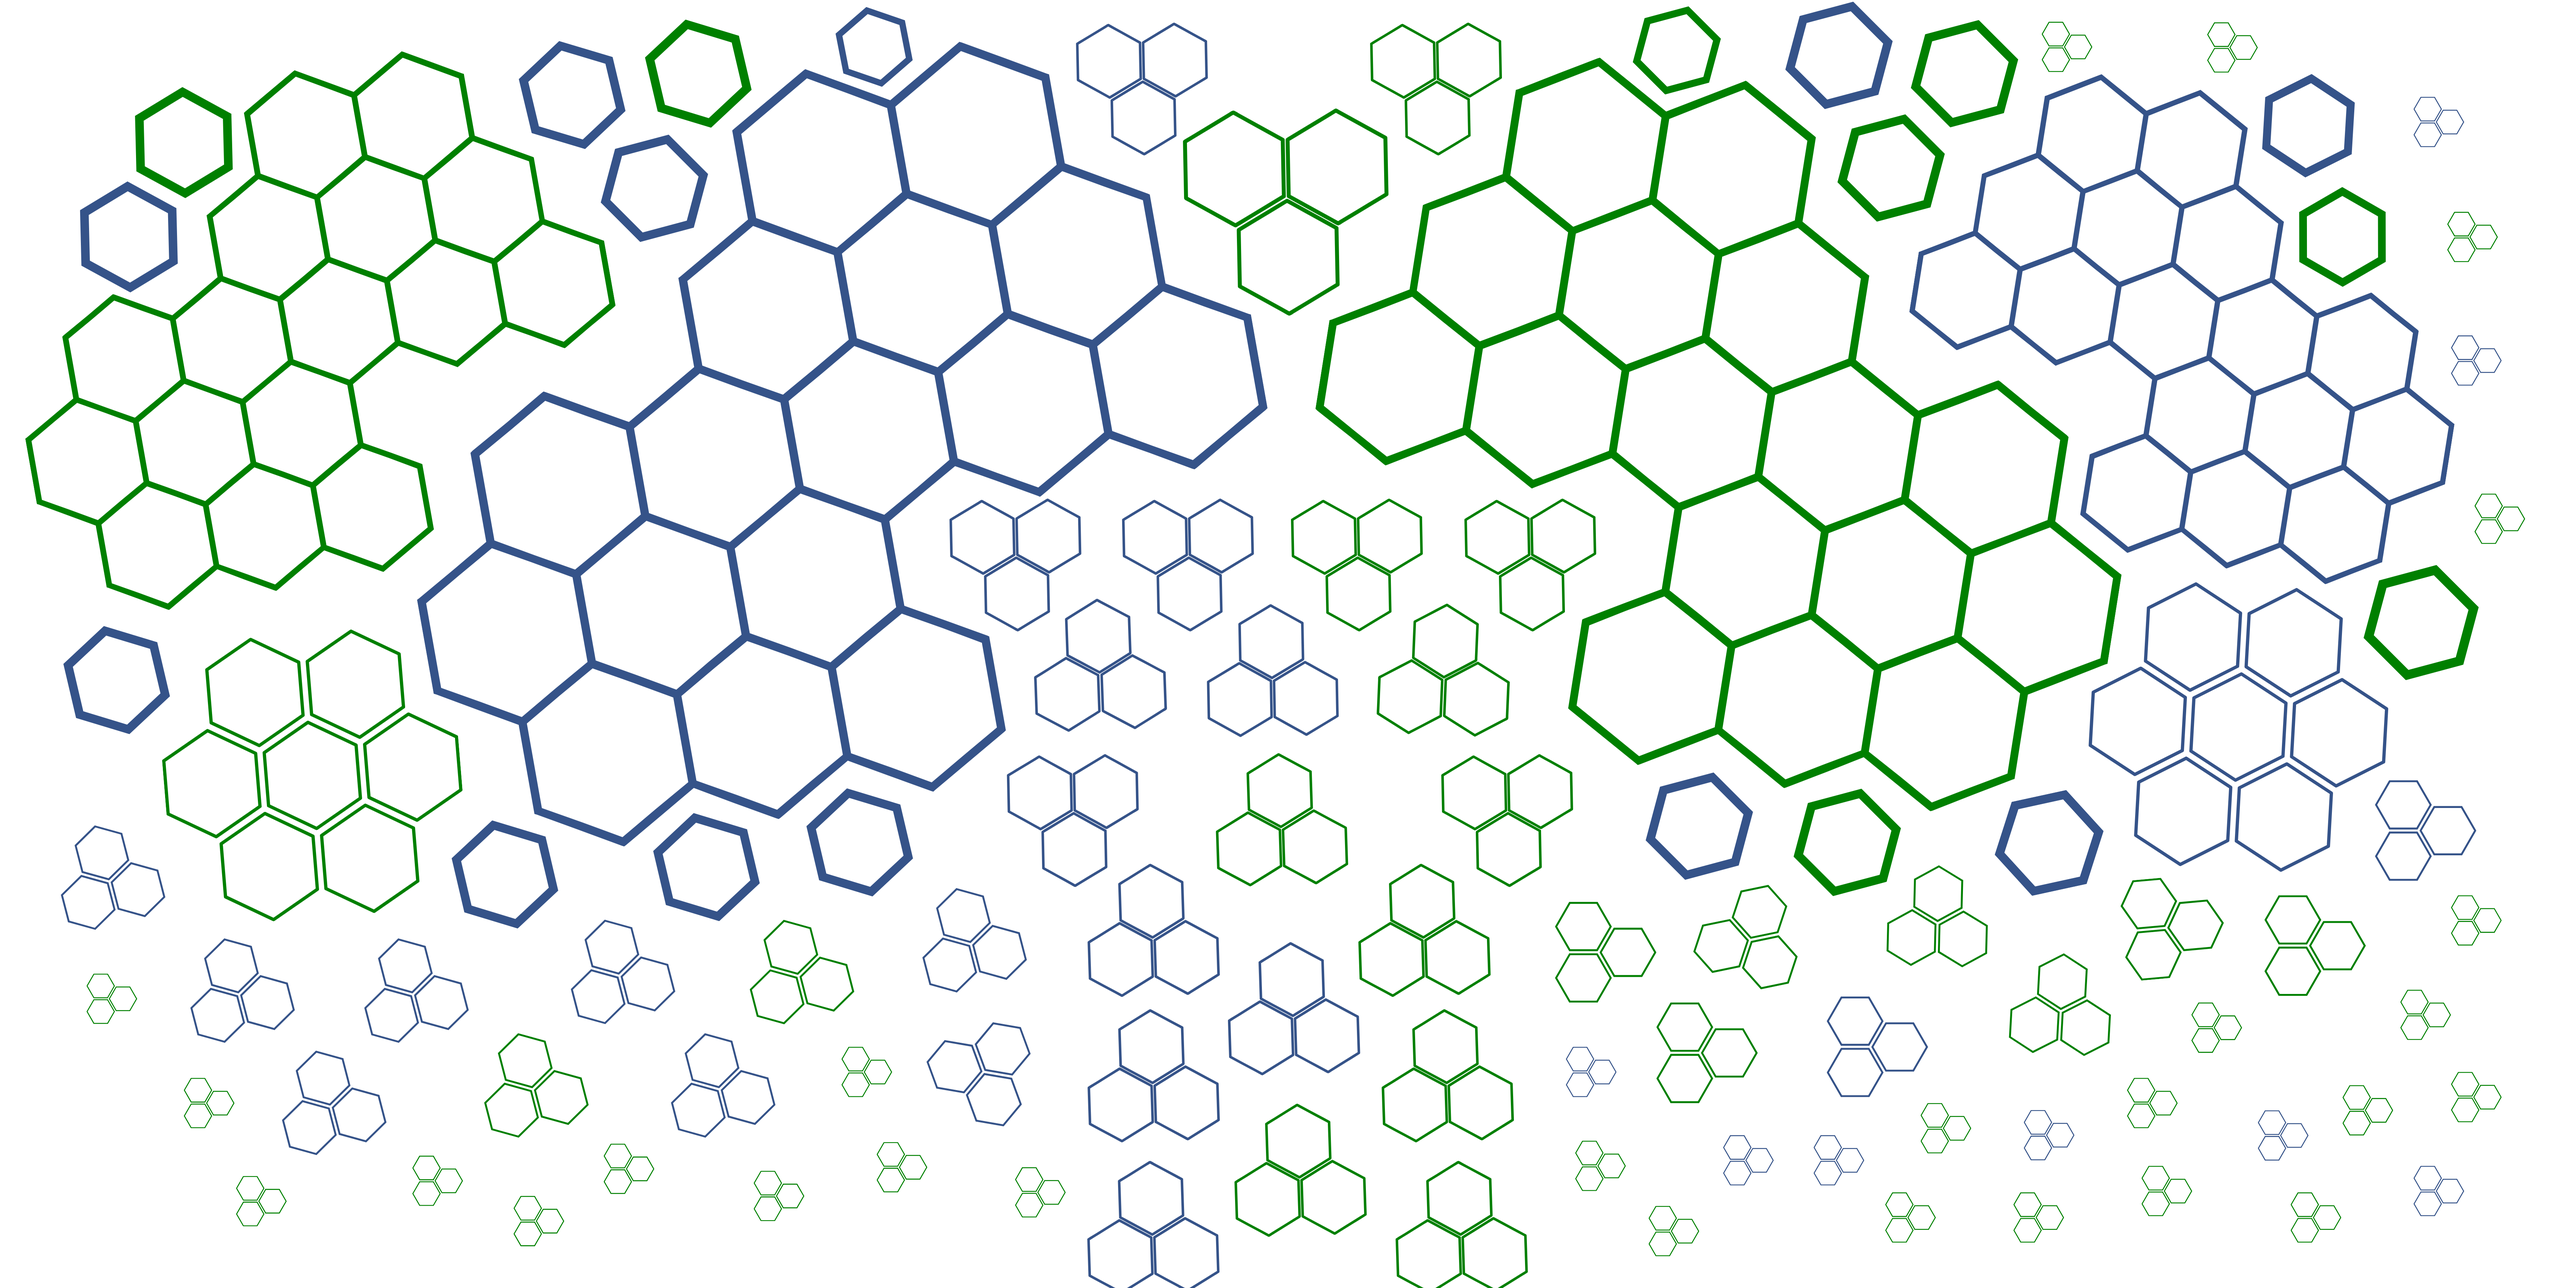
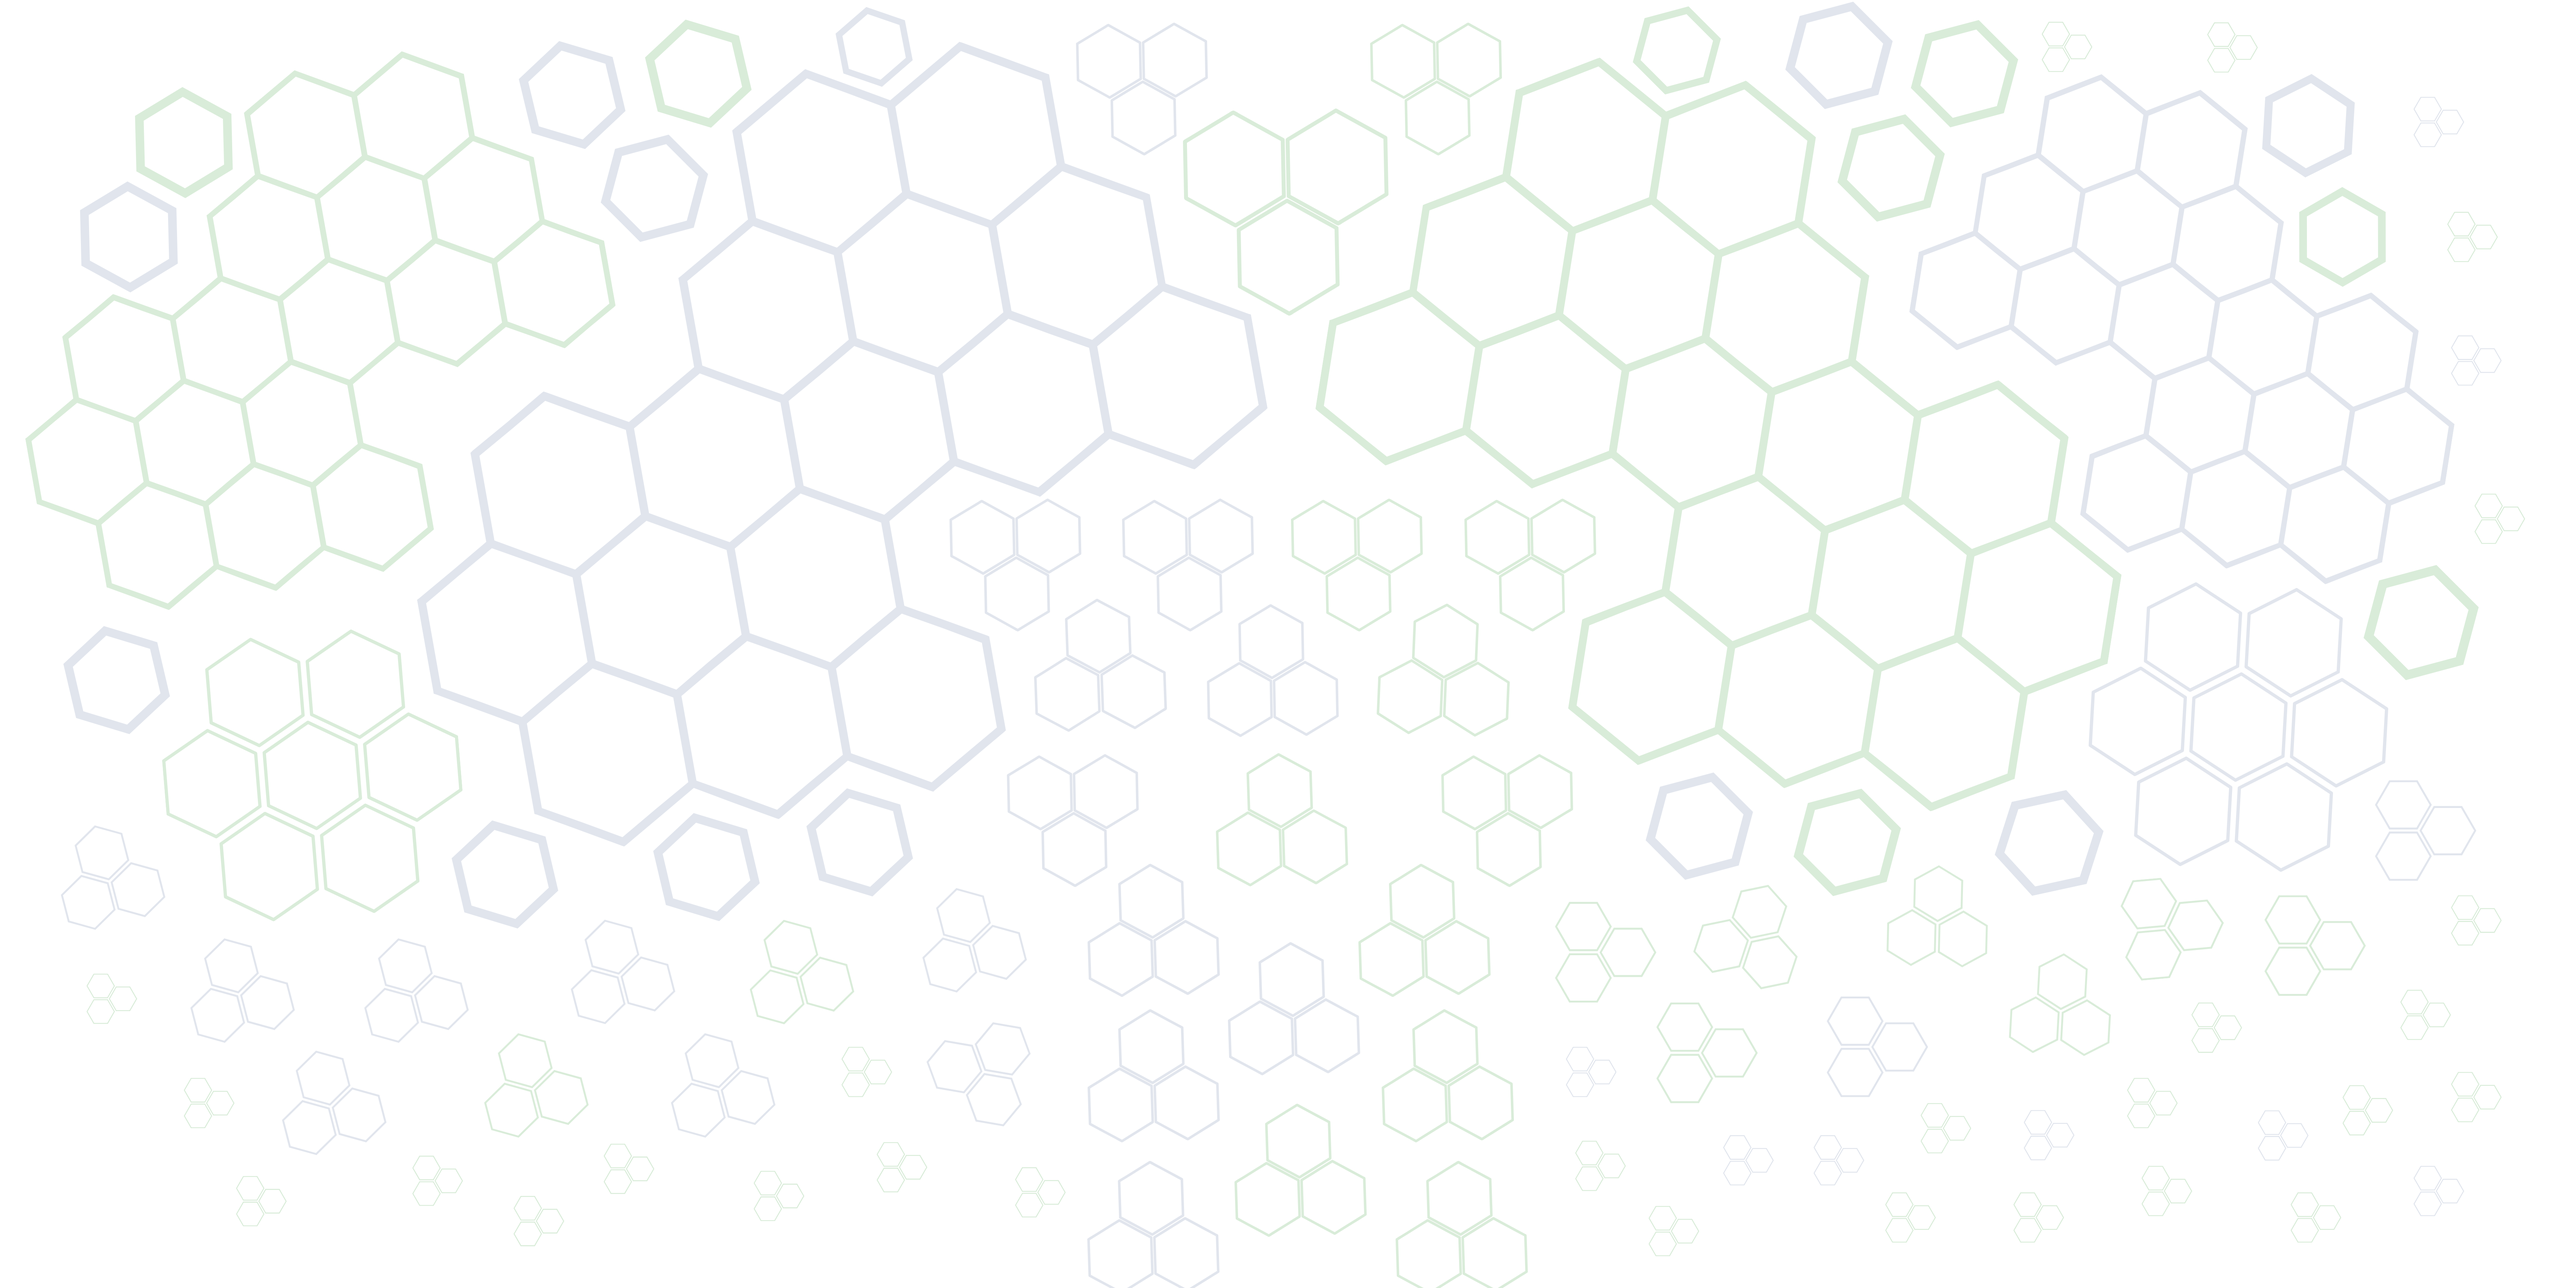
fixed: submit and layout button position; feat: new bg for login, announcement and userside client

diff --git a/templates/Login/login.html b/templates/Login/login.html
@@ -59,7 +59,7 @@
             <div
               class="row background-image"
               style="
-                background-image: url('/static/img/bg_admin_login@2x.jpg');
+                background-image: url('/static/img/service-bg.png');
                 background-repeat: no-repeat !important;
                 background-size: cover !important;
                 background-position: center;
@@ -94,10 +94,10 @@
               <div class="col-lg-12 fixed-bottom">
                 <a
                   class=""
-                  href="https://www.freepik.com/free-vector/early-morning-scenery-seascape-lonely-wooden-boat_17676504.htm#query=sunset%20lake%20vector&position=0&from_view=search"
-                  >Image by upklyak</a
+                  href="https://github.com/syntaxboybe"
+                  >Image by syntaxboybe</a
                 >
-                on Freepik
+                on github
               </div>
             </div>
           </div>

diff --git a/templates/UsersideTemplate/ServicePortalBase.html b/templates/UsersideTemplate/ServicePortalBase.html
@@ -60,7 +60,7 @@
             <ul class="list-unstyled px-2">
                 <li class=""><a href="{% url 'service_portal' %}" class="text-decoration-none px-3 py-2 d-block"><i class="fa-solid fa-file-import"></i> Request Document</a></li>
                 <li class=""><a href="{% url 'document-status' %}" class="text-decoration-none px-3 py-2 d-block"><i class="fa-solid fa-cart-arrow-down"></i> Request Tracker</a></li>
-                <li class=""><a href="{% url 'profile' %}" class="text-decoration-none px-3 py-2 d-block"><i class="fas fa-user fs-5"></i> Profile</a></li>
+                <li class=""><a href="{% url 'profile' %}" class="text-decoration-none px-3 py-2 d-block"><i class="fa-solid fa-user fs-5"></i> Profile</a></li>
                 <li class=""><a href="{% url 'userLogout' %}" class="text-decoration-none px-3 py-2 d-block"><i class="fa-solid fa-right-from-bracket"></i> Logout</a></li>
             </ul>
         </div>

diff --git a/templates/UsersideTemplate/barangay_clearance.html b/templates/UsersideTemplate/barangay_clearance.html
@@ -38,9 +38,9 @@
             </div>
 
             <div class="col-12 pt-5 d-flex justify-content-end">
-                <a href="{% url 'service_portal'%}" class="btn-theme -btn1 col-12 col-md-3 text-center">Cancel</a>
-                &nbsp;&nbsp;
                 <input type="submit" name="btnLogin" class="btn-theme col-12 col-md-3 -btn2" value="Submit">
+                &nbsp;&nbsp;
+                <a href="{% url 'service_portal'%}" class="btn-theme -btn1 col-12 col-md-3 text-center">Cancel</a>
             </div>
     </div>
 </form>

diff --git a/templates/UsersideTemplate/indigency.html b/templates/UsersideTemplate/indigency.html
@@ -31,9 +31,9 @@
             </div>
 
             <div class="col-12 pt-5 d-flex justify-content-end">
-                <a href="{% url 'service_portal'%}" class="btn-theme -btn1 col-12 col-md-3 text-center">Cancel</a>
-                &nbsp;&nbsp;
                 <input type="submit" name="btnLogin" class="btn-theme col-12 col-md-3 -btn2" value="Submit">
+                &nbsp;&nbsp;
+                <a href="{% url 'service_portal'%}" class="btn-theme -btn1 col-12 col-md-3 text-center">Cancel</a>
             </div>
     </div>
 </form>

diff --git a/templates/UsersideTemplate/residency_certificate.html b/templates/UsersideTemplate/residency_certificate.html
@@ -28,9 +28,9 @@
         <hr>
 
         <div class="col-12 pt-5 d-flex justify-content-end">
-            <a href="{% url 'service_portal'%}" class="btn-theme -btn1 col-12 col-md-3 text-center">Cancel</a>
-            &nbsp;&nbsp;
             <input type="submit" name="btnLogin" class="btn-theme col-12 col-md-3 -btn2" value="Submit">
+            &nbsp;&nbsp;
+            <a href="{% url 'service_portal'%}" class="btn-theme -btn1 col-12 col-md-3 text-center">Cancel</a>
         </div>
     </div>
 </form>

diff --git a/templates/UsersideTemplate/building_permit.html b/templates/UsersideTemplate/building_permit.html
@@ -44,9 +44,9 @@
         </div>
 
         <div class="col-12 pt-5 d-flex justify-content-end">
-            <a href="{% url 'service_portal'%}" class="btn-theme -btn1 col-12 col-md-3 text-center">Cancel</a>
-            &nbsp;&nbsp;
             <input type="submit" name="btnLogin" class="btn-theme col-12 col-md-3 -btn2" value="Submit">
+            &nbsp;&nbsp;
+            <a href="{% url 'service_portal'%}" class="btn-theme -btn1 col-12 col-md-3 text-center">Cancel</a>
         </div>
 
     </div>

diff --git a/templates/UsersideTemplate/business_permit.html b/templates/UsersideTemplate/business_permit.html
@@ -49,9 +49,9 @@
         </div>
 
         <div class="col-12 pt-5 d-flex justify-content-end">
-            <a href="{% url 'service_portal'%}" class="btn-theme -btn1 col-12 col-md-3 text-center">Cancel</a>
-            &nbsp;&nbsp;
             <input type="submit" name="btnLogin" class="btn-theme col-12 col-md-3 -btn2" value="Submit">
+            &nbsp;&nbsp;
+            <a href="{% url 'service_portal'%}" class="btn-theme -btn1 col-12 col-md-3 text-center">Cancel</a>
         </div>
 
     </div>
